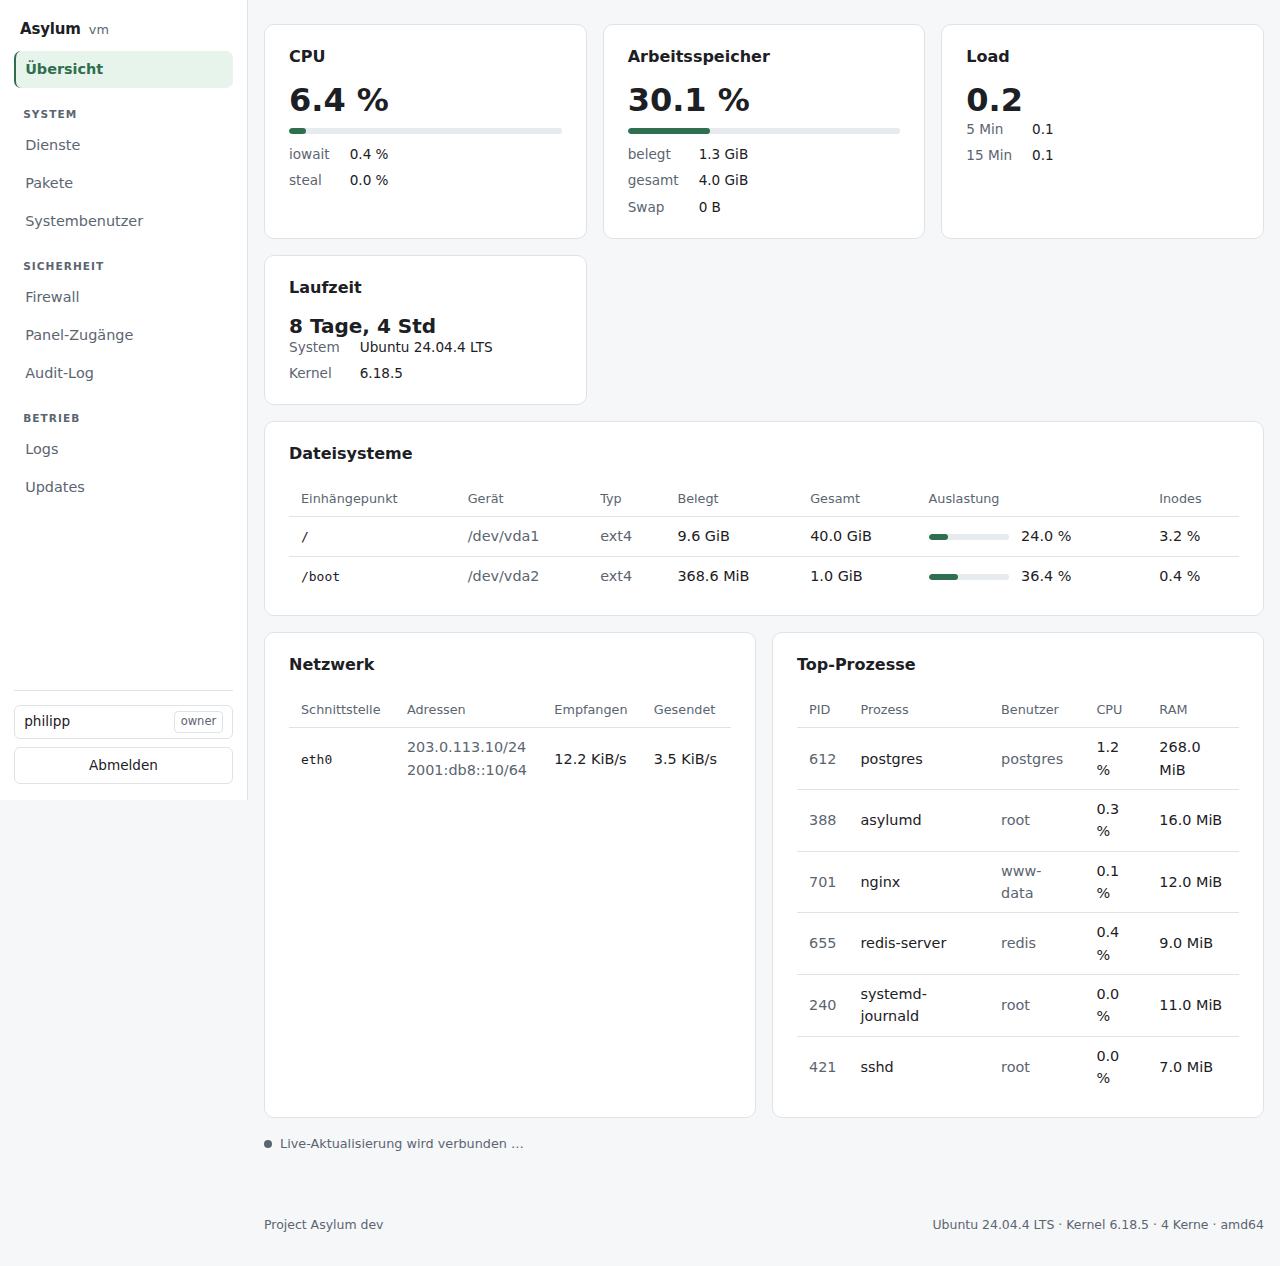
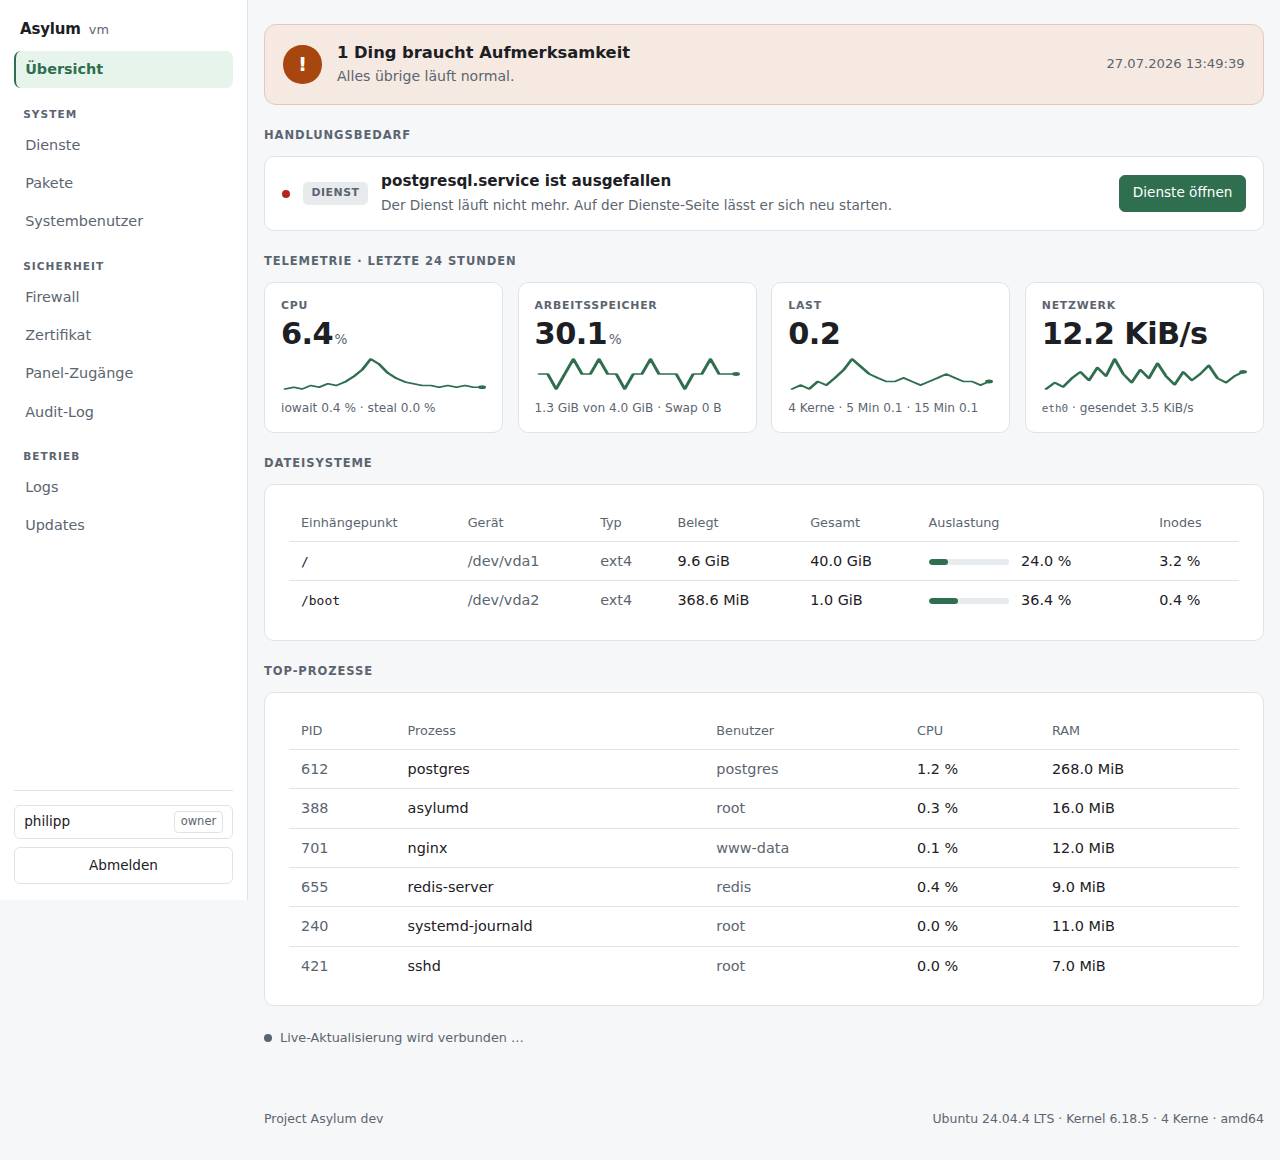
docs(ui): Leitstand in README, Roadmap und Changelog nachziehen
Das Bildschirmfoto der Übersicht zeigt jetzt den Leitstand — neu aufgenommen
aus der Anwendung (TestDumpSeiten), mit Verläufen aus einem gestellten
Ringpuffer. Der README-Absatz beschreibt die Seite als Leitstand: Urteil,
Handlungsbedarf, dann Telemetrie.

Die Roadmap bekommt einen Abschnitt „0.2.0 — Übersicht als Leitstand" mit
Anlass (Rückmeldung, kein Testbefund) und den beiden Architekturentscheidungen
(serverseitig gezeichnete Verläufe wegen der CSP, Handlungsbedarf ohne
Schreibpfad). Der Changelog vermerkt die Neufassung unter „Geändert".

Claude-Session: https://claude.ai/code/session_01Xk3su4EqjKatZXMTb486Zo

diff --git a/docs/06-roadmap.md b/docs/06-roadmap.md
@@ -393,6 +393,37 @@ echten Server (ohne öffentlichen Namen in der Entwicklungsumgebung nicht
 möglich) und das gefahrlose kurzzeitige Öffnen von Port 80 für HTTP-01, das eine
 eigene Firewall-Primitive braucht.
 
+### 0.2.0 — Übersicht als Leitstand
+
+**Stand: umgesetzt.** Kein neues Systemmodul, sondern eine Neufassung der
+meistbesuchten Seite. Der Anlass war eine Rückmeldung, kein Testbefund: Die
+Übersicht wirkte „fad und wenig aufschlussreich" — ein Gitter gleichrangiger
+Kacheln (CPU, Speicher, Last, Laufzeit), aus dem der Betrachter selbst
+herauslesen musste, ob dem Server etwas fehlt.
+
+Jetzt führt die Seite ein Urteil in einem Satz: Läuft alles normal, oder
+brauchen *n* Dinge Aufmerksamkeit? Darunter steht ein Handlungsbedarf-Block, der
+nur erscheint, wenn es etwas zu tun gibt — fehlgeschlagene Dienste, knapper
+Plattenplatz (ab 85 %, kritisch ab 95 %), ein ausstehender Neustart —, jeweils
+mit einem Link auf die zuständige Seite. Erst danach folgt die Telemetrie: CPU,
+Arbeitsspeicher, Last und Netz je als Kachel mit dem Verlauf der letzten
+Stunden, dazu Dateisysteme und die größten Prozesse.
+
+Zwei Entscheidungen dabei, beide der Architektur des Panels geschuldet:
+
+- **Die Verläufe zeichnet der Server**, nicht der Browser. Die CSP verbietet
+  Inline-Skripte; die Sparklines sind fertige SVG-Pfade aus dem Ringpuffer. Die
+  großen Zahlen tragen weiter `data-live` und werden vom SSE-Kanal nachgezogen.
+- **Der Handlungsbedarf kommt ohne Schreibpfad aus.** Seine Aktionen sind bloße
+  Links — von der Übersicht aus wird nichts geändert, deshalb braucht die Seite
+  weder CSRF noch einen Schreibendpunkt. Die Signale werden mit kurzem Timeout
+  (3 s) aus günstigen Quellen gesammelt; ein hängendes `systemctl` darf die
+  meistbesuchte Seite nicht blockieren, dann fehlt eben ein Signal.
+
+Die Bildschirmfotos unter [`docs/bilder/`](bilder/) sind für die Übersicht neu
+entstanden; die Verläufe stammen dort aus einem gestellten Ringpuffer, wie der
+übrige Snapshot.
+
 ### 0.3.0 — Passkeys
 
 Zuerst **zusätzlich zu**, nicht anstelle von Passwort und TOTP.

diff --git a/CHANGELOG.md b/CHANGELOG.md
@@ -86,6 +86,20 @@ nicht als Release getaggt.
 
 ### Geändert
 
+- **Die Übersicht ist ein Leitstand.** Statt eines Gitters gleichrangiger
+  Kacheln, aus dem der Betrachter selbst herauslesen musste, ob dem Server
+  etwas fehlt, führt jetzt ein Urteil in einem Satz: Läuft alles normal, oder
+  brauchen einige Dinge Aufmerksamkeit? Darunter erscheint — nur wenn es etwas
+  zu tun gibt — ein Handlungsbedarf-Block mit ausgefallenen Diensten, knappem
+  Plattenplatz (ab 85 %, kritisch ab 95 %) und ausstehendem Neustart, jeweils
+  mit dem Weg zur zuständigen Seite. Erst dann folgt die Telemetrie: CPU,
+  Arbeitsspeicher, Last und Netz je als Kachel mit dem Verlauf der letzten
+  Stunden, dazu Dateisysteme und die größten Prozesse. Die Verläufe zeichnet
+  der Server als SVG-Pfad (die CSP verbietet Inline-Skripte); die großen Zahlen
+  tragen weiter `data-live` und werden vom Live-Kanal nachgezogen. Der
+  Handlungsbedarf kommt ohne Schreibpfad und ohne CSRF aus, weil seine Aktionen
+  bloße Links sind, und wird mit kurzem Timeout gesammelt — ein hängendes
+  `systemctl` darf die meistbesuchte Seite nicht blockieren.
 - **Die Navigation ist eine Seitenleiste.** Statt zehn Punkten in einer Zeile
   stehen sie senkrecht und nach **System**, **Sicherheit** und **Betrieb**
   gruppiert; der eigene Zugang und das Abmelden sitzen unten fest. Der Menüpunkt

diff --git a/README.md b/README.md
@@ -43,8 +43,13 @@ Links eine Seitenleiste, in der die Punkte nach **System**, **Sicherheit** und
 **Betrieb** gruppiert sind; der Projektname führt zur Übersicht, der eigene Name
 unten aufs Profil. Auf schmalen Bildschirmen klappt sie zu einer Kopfzeile ein.
 
-Die Übersicht: Auslastung, Dateisysteme, Netzwerk und die größten Prozesse, alle
-zwei Sekunden über einen Live-Kanal aktualisiert.
+Die Übersicht ist ein Leitstand: zuoberst ein Urteil in einem Satz — läuft
+alles normal, oder brauchen einige Dinge Aufmerksamkeit? Darunter steht nur,
+was zu tun ist (ausgefallene Dienste, knapper Plattenplatz, ausstehender
+Neustart), jeweils mit dem Weg zur zuständigen Seite. Erst dann folgt die
+Telemetrie — CPU, Arbeitsspeicher, Last und Netz je mit dem Verlauf der letzten
+Stunden —, dazu Dateisysteme und die größten Prozesse. Die Zahlen aktualisiert
+ein Live-Kanal alle zwei Sekunden; die Verläufe sind serverseitig gezeichnet.
 
 ![Übersicht](docs/bilder/uebersicht.png)
 
